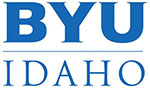
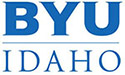
Optimized images

diff --git a/index.html b/index.html
@@ -43,7 +43,7 @@
                 <div class="container">
                     <div class="col-md-4 col-sm-12 text-center">
                         <section class="hero">
-                            <img src="images/profile-pic-02.jpg" />
+                            <img src="images/profile-pic-02.jpg" alt="Eric Porter, Developer, Photographer, and All-Around Good Guy" />
                         </section>
 
                     </div>
@@ -90,15 +90,15 @@
                         <h2>Experience</h2>
                         <div class="col-sm-4">
                             
-                                <img id="scentsy-btn" class="animated zoomInDown img-responsive first emp-logo" src="images/scentsy.png" alt=" ">
+                                <img id="scentsy-btn" class="animated zoomInDown img-responsive first emp-logo" src="images/scentsy.gif" alt="Scentsy Employer Logo">
                             
                         </div>
                         <div class="col-sm-4">
                             
-                                <img id="bestbuy-btn"  class="animated zoomInDown img-responsive second emp-logo" width="75%" src="images/bestbuy.png" alt=" ">
+                                <img id="bestbuy-btn"  class="animated zoomInDown img-responsive second emp-logo" width="75%" src="images/bestbuy.gif" alt="Best Buy Employer Logo">
                         </div>
                         <div class="col-sm-4">
-                                <img id="observepoint-btn" class="animated zoomInDown img-responsive third emp-logo" width="75%" src="images/observepoint.jpg " alt=" ">
+                                <img id="observepoint-btn" class="animated zoomInDown img-responsive third emp-logo" width="75%" src="images/observepoint.jpg " alt="ObservePoint Employer Logo">
                         </div>
                     </div>
                 </section>
@@ -108,10 +108,10 @@
                         <h2>Education</h2>
 
                         <div class="col-sm-6">
-                                <img id="byui-btn" class="animated zoomInDown img-responsive fourth emp-logo" src="images/byui.jpg " alt=" ">
+                                <img id="byui-btn" class="animated zoomInDown img-responsive fourth emp-logo" src="images/byui.jpg " alt="Brigham Young University-Idaho Education Logo">
                         </div>
                         <div class="col-sm-6">
-                                <img id="bcw-btn" class="animated zoomInDown img-responsive fifth emp-logo" src="images/boisecodeworks.jpg " alt=" ">
+                                <img id="bcw-btn" class="animated zoomInDown img-responsive fifth emp-logo" src="images/boisecodeworks.jpg " alt="BoiseCodeWorks Education Logo">
                         </div>
                     </div>
                 </section>
@@ -357,7 +357,7 @@
         <div class="container">
             <div class="row">
 
-                <img src="images/wordcloud.png" alt=" ">
+                <img src="images/wordcloud.png" alt="Word cloud of skills and interests, including HTML, CSS, JavaScript, jQuery, Bootstrap, Web Development, Coding, and more.">
 
             </div>
         </div>
